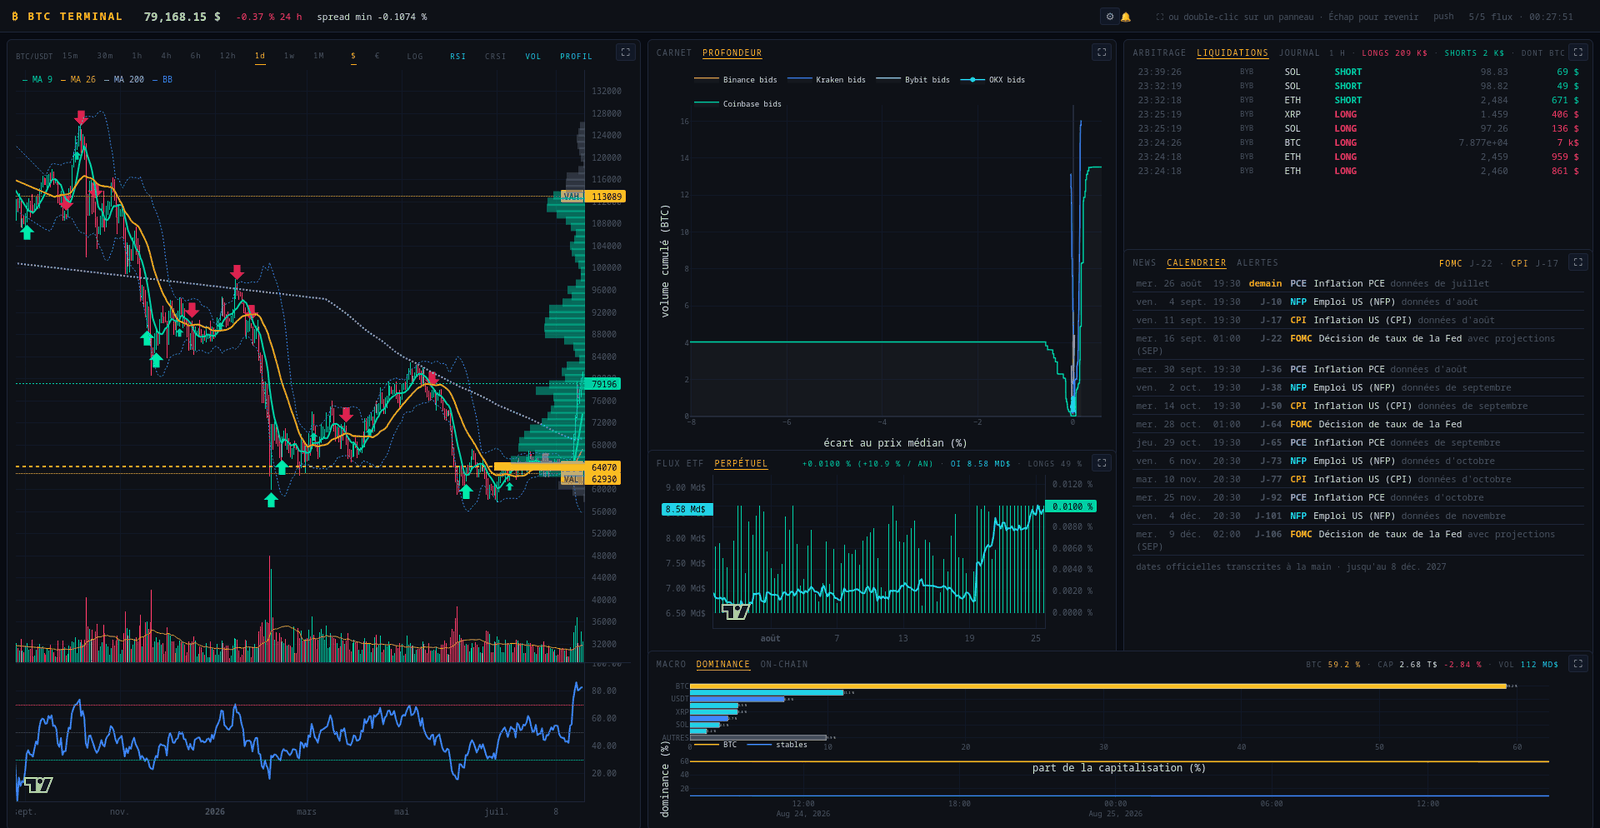
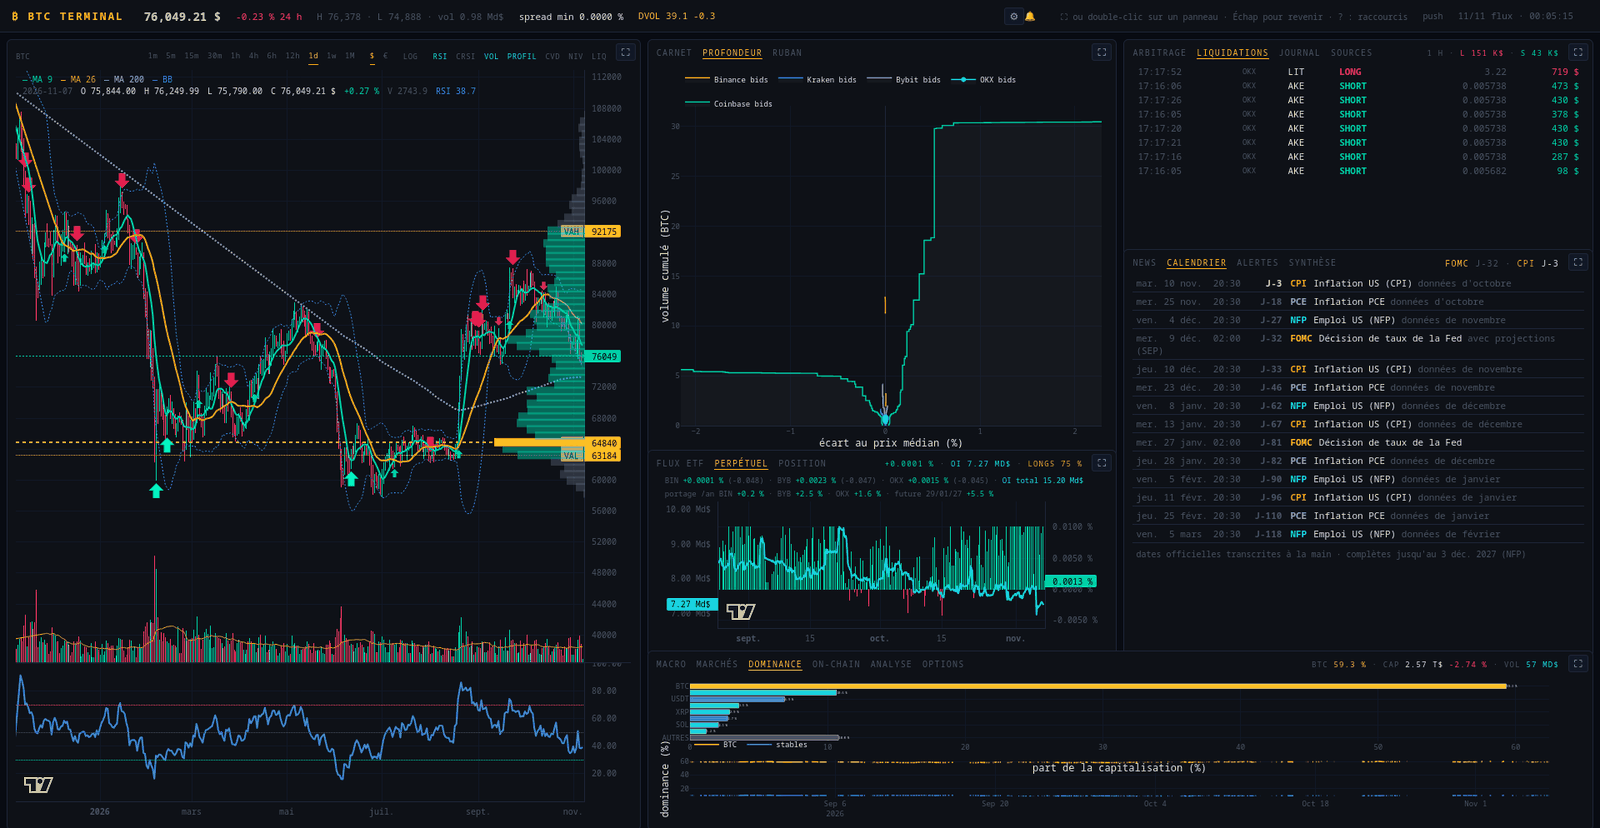
Des captures neuves pour la documentation
Les captures du README dataient du 25 août. Elles sont refaites sur le
service en marche, et une cinquième montre ce qui est arrivé depuis :
la synthèse des dernières 24 h, le ruban des gros ordres, l'état des
sources, les options, et le prix en cinq minutes sur une semaine. Les
légendes suivent — trois plateformes de liquidations, la position.

`tests/ui_captures.py` les produit toutes d'un passage : chaque vue
repart des onglets par défaut et fixe l'intervalle du prix, et les
images sortent réduites à 1600 px et 256 couleurs (`--brut` garde la
pleine résolution). Il ne fait que cliquer des onglets : `ui_smoke.py
--capture`, lui, pose un seuil d'alerte que la page transmet au serveur.

diff --git a/tests/ui_captures.py b/tests/ui_captures.py
@@ -2,19 +2,24 @@
 """
 Captures d'écran du terminal pour la documentation (docs/captures/).
 
-`ui_smoke.py --capture` produit déjà la grille par défaut et le plein
-écran du prix ; ce script complète avec les onglets secondaires — ceux
-qu'on ne voit pas au premier regard : profondeur comparée, liquidations,
-perpétuel, calendrier, dominance, puis journal, alertes, données de
-chaîne. Il pilote Firefox par Marionette et **suppose le terminal
-lancé** :
+Toutes les captures du README, d'un seul passage : la grille par défaut,
+les onglets secondaires — ceux qu'on ne voit pas au premier regard —, le
+journal et les alertes, la synthèse et le ruban, puis le prix en plein
+écran. Chaque vue repart des onglets par défaut et fixe l'intervalle du
+panneau prix : une capture ne dépend pas de celle qui la précède. Il
+pilote Firefox par Marionette et **suppose le terminal lancé** :
 
     python -m terminal.app &          # ou le service btcterm.service
     python tests/ui_captures.py docs/captures
 
-Les images sont enregistrées en pleine résolution (1920 px) ; celles du
-dépôt sont réduites à 1600 px et quantifiées à 256 couleurs pour rester
-légères — voir « Aperçu » dans le README.
+`ui_smoke.py --capture` produit aussi la grille et le plein écran, mais
+en plein contrôle : il pose et retire un seuil d'alerte, que la page
+transmet au serveur. Sur le service en marche, ce script-ci ne fait que
+cliquer des onglets.
+
+Les images sont enregistrées en pleine résolution (1920 px) puis
+réduites à 1600 px et quantifiées à 256 couleurs pour rester légères ;
+`--brut` garde la pleine résolution.
 
 Ignoré si Firefox est absent.
 """
@@ -28,13 +33,26 @@ sys.path.insert(0, str(Path(__file__).resolve().parent))
 
 URL = "http://127.0.0.1:8050/"
 
-#: Onglets à activer, capture par capture. Les libellés sont ceux des
-#: barres de titre, comparés en majuscules.
+#: Vue par vue : les onglets à activer (libellés des barres de titre,
+#: comparés en majuscules), l'intervalle du panneau prix, et le plein
+#: écran du prix.
 VUES = {
-    "grille-onglets.png": ("PROFONDEUR", "LIQUIDATIONS", "PERPÉTUEL",
-                           "CALENDRIER", "DOMINANCE"),
-    "grille-journal.png": ("JOURNAL", "ALERTES", "ON-CHAIN"),
+    "grille.png": {"onglets": (), "intervalle": "1d"},
+    "grille-onglets.png": {
+        "onglets": ("PROFONDEUR", "LIQUIDATIONS", "PERPÉTUEL", "CALENDRIER",
+                    "DOMINANCE"),
+        "intervalle": "1d"},
+    "grille-journal.png": {
+        "onglets": ("JOURNAL", "POSITION", "ALERTES", "ON-CHAIN"),
+        "intervalle": "1h"},
+    "grille-synthese.png": {
+        "onglets": ("RUBAN", "SOURCES", "PERPÉTUEL", "SYNTHÈSE", "OPTIONS"),
+        "intervalle": "5m"},
+    "plein-ecran.png": {"onglets": (), "intervalle": "4h",
+                        "plein_ecran": True},
 }
+#: Largeur des images du dépôt.
+LARGEUR = 1600
 PRIX_PRET = ("window.lwcPrice && !!window.lwcPrice.debug()"
              " && window.lwcPrice.debug().bars > 0")
 
@@ -46,7 +64,38 @@ def onglet(browser, label: str) -> bool:
         if (!t) return false; t.click(); return true;""", [label]))
 
 
-def run(out: Path, url: str = URL) -> int:
+def onglets_par_defaut(browser) -> None:
+    """Le premier onglet de chaque cellule : le rangement par défaut."""
+    browser.js("""
+        for (const cell of document.querySelectorAll('.cell')) {
+            const t = cell.querySelector('.cell-tab');
+            if (t && !t.classList.contains('cell-tab-active')) t.click();
+        }""")
+
+
+def intervalle(browser, valeur: str) -> bool:
+    browser.js("""
+        const l = Array.from(document.querySelectorAll('#price-interval label'))
+          .find(e => e.textContent.trim() === arguments[0]);
+        if (l) l.click();""", [valeur])
+    return browser.wait_for(
+        f"(d => d.loaded === '{valeur}' && d.bars > 0)"
+        "(window.lwcPrice.debug())", timeout=30)
+
+
+def reduire(image: Path) -> None:
+    """1600 px et 256 couleurs : les captures du dépôt restent légères."""
+    from PIL import Image
+
+    with Image.open(image) as source:
+        hauteur = round(source.height * LARGEUR / source.width)
+        petite = source.convert("RGB").resize((LARGEUR, hauteur),
+                                              Image.LANCZOS)
+    petite.quantize(colors=256, method=Image.Quantize.MEDIANCUT).save(
+        image, optimize=True)
+
+
+def run(out: Path, url: str = URL, brut: bool = False) -> int:
     from marionette_client import Firefox
     browser = Firefox()
     try:
@@ -57,14 +106,31 @@ def run(out: Path, url: str = URL) -> int:
             return 1
         browser.wait_for(PRIX_PRET, timeout=20)
         time.sleep(3)
-        for fichier, labels in VUES.items():
-            for label in labels:
+        for fichier, vue in VUES.items():
+            onglets_par_defaut(browser)
+            time.sleep(1)
+            for label in vue["onglets"]:
                 if not onglet(browser, label):
                     print(f"  ✗ onglet introuvable : {label}")
                     return 1
                 time.sleep(1.5)
-            time.sleep(4)   # le temps que les panneaux se remplissent
+            if not intervalle(browser, vue["intervalle"]):
+                print(f"  ✗ l'intervalle {vue['intervalle']} ne s'est pas chargé")
+                return 1
+            if vue.get("plein_ecran"):
+                browser.js("document.getElementById('zoom-price').click();")
+                time.sleep(2)
+                browser.wait_for(PRIX_PRET)
+            # Le temps que les panneaux se remplissent — la synthèse et
+            # les options lisent plusieurs sources à leur premier rendu.
+            time.sleep(8)
             browser.screenshot(str(out / fichier))
+            if vue.get("plein_ecran"):
+                browser.js("document.body.dispatchEvent(new KeyboardEvent("
+                           "'keydown', {key: 'Escape', bubbles: true}));")
+                time.sleep(1.5)
+            if not brut:
+                reduire(out / fichier)
             print(f"  ✓ {fichier}")
         return 0
     finally:
@@ -75,7 +141,8 @@ if __name__ == "__main__":
     if not shutil.which("firefox"):
         print("\nFirefox absent — captures ignorées.\n")
         sys.exit(0)
-    dossier = Path(sys.argv[1] if len(sys.argv) > 1 else "docs/captures")
+    args = [a for a in sys.argv[1:] if a != "--brut"]
+    dossier = Path(args[0] if args else "docs/captures")
     dossier.mkdir(parents=True, exist_ok=True)
     print(f"\nCaptures du terminal — {URL} → {dossier}\n" + "─" * 60)
-    sys.exit(run(dossier))
+    sys.exit(run(dossier, brut="--brut" in sys.argv[1:]))

diff --git a/README.md b/README.md
@@ -20,8 +20,8 @@ monétaire.*
 ![Les onglets secondaires : profondeur comparée, liquidations, perpétuel, calendrier macro, dominance](docs/captures/grille-onglets.png)
 
 *Les mêmes cellules, autres onglets — profondeur cumulée des cinq carnets,
-liquidations Binance et Bybit, financement et open interest du perpétuel,
-calendrier macro, dominance.*
+liquidations Binance, Bybit et OKX, financement et open interest du
+perpétuel comparés sur trois plateformes, calendrier macro, dominance.*
 
 ![Le panneau prix en plein écran](docs/captures/plein-ecran.png)
 
@@ -29,14 +29,24 @@ calendrier macro, dominance.*
 revenir ; ici le prix en 4 h avec ses signaux gradués et le profil de volume
 de la plage visible.*
 
-![Le journal de la séance, les réglages d'alertes et les données de chaîne](docs/captures/grille-journal.png)
+![Le journal de la séance, la position, les réglages d'alertes et les données de chaîne](docs/captures/grille-journal.png)
 
 *Le journal relit la séance — alertes sonnées, épisodes d'arbitrage, bilan
-des liquidations —, les seuils d'alerte se règlent dans le terminal, et la
-chaîne (hashrate, difficulté, mempool) a son onglet.*
+des liquidations et des gros ordres —, la position se suit et se dimensionne,
+les seuils d'alerte se règlent dans le terminal, et la chaîne (hashrate,
+difficulté, mempool) a son onglet ; le prix en horaire.*
 
-Captures produites par `tests/ui_smoke.py --capture` et
-`tests/ui_captures.py` sur un terminal en marche, réduites à 1600 px.
+![La synthèse des dernières 24 h, le ruban des gros ordres, l'état des sources et les options](docs/captures/grille-synthese.png)
+
+*La synthèse dit la journée en une page — cours, perpétuel, liquidations,
+gros ordres, ETF, sentiment, volatilité, prime Coinbase, agenda, news —, et
+ce que le journal en a vu : ici 7 h 22 sur 24, le portable ayant dormi. Le
+ruban suit les gros ordres exécutés, SOURCES l'état de chaque flux, OPTIONS
+la volatilité implicite de Deribit ; le prix en cinq minutes, une semaine de
+bougies.*
+
+Captures produites par `python tests/ui_captures.py docs/captures` sur le
+terminal en marche, réduites à 1600 px et 256 couleurs.
 
 **Démo à manipuler** — le panneau prix se dessine entièrement dans le
 navigateur : il est servi en page statique, sur un instantané figé, à
